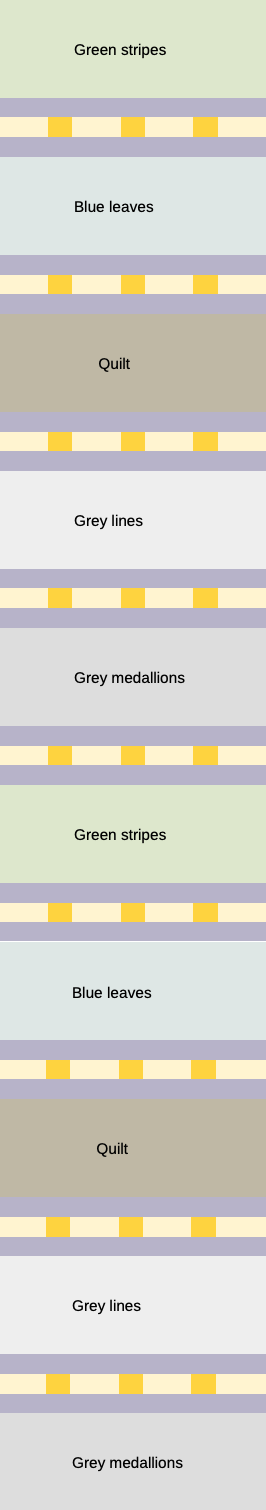
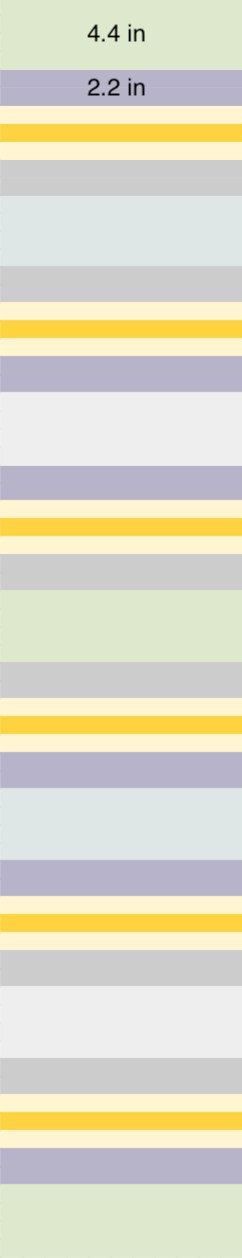
updated the schematic

diff --git a/_projects/2020-rugs/2020-rugs.md b/_projects/2020-rugs/2020-rugs.md
@@ -36,7 +36,7 @@ The warp board can only handle 12 yards. Wound on in bundles of 5 from 5 cones o
 ![Different treadlings](2020-rugs-treadlings.png)
 
 ## Rug 1
-* 6 Apr 2020: heading started
+* 6 Apr 2020: heading started: 23 rows (0.5 in) + 1 row sumac + 38 rows (0.75 in)
 
 <div class="columns-2">
 	<h2>Schematic</h2>
@@ -48,7 +48,6 @@ The warp board can only handle 12 yards. Wound on in bundles of 5 from 5 cones o
 		<li>Blue/green 6734/685 = 9.83 sq.in./g → 1.5</li>
 		<li>Blue leaves 7980/653 = 12.22 sq.in./g → 2</li>
 		<li>Quilt 8010/453 = 17.68 sq.in./g → 2.5</li>
-		<li>Lines 4644/354 = 13.12 sq.in./g → 2</li>
 		<li>Diamonds 5818/444 = 13.10sq.in./g → 2</li>			
 		<li>Orange 2968/315 = 9.42sq.in./g → 1.5</li>
 	</ul>
@@ -59,8 +58,24 @@ The warp board can only handle 12 yards. Wound on in bundles of 5 from 5 cones o
 		<li>Blue/green 1.0 in</li>
 		<li>Blue leaves 1.5 in</li>
 		<li>Quilt 1.75</li>
-		<li>Lines 2.0 in</li>
 		<li>Diamonds 2.0 in</li>
 		<li>Orange 1.0 in</li>
 	</ul>
+	
+	Weaving started with Blue/green fabric. After 3.14 in, 609 g remaining.
+	
+	<code>
+		685-609 = 78g used
+		76g/3.14in = 24.2 g/in
+	</code>
+	
+	Amounts of fabric needed:
+
+	* Blue leaves, 653g/24.2 → 27 in of weaving, only 13.2 in needed
+	* Quilt, 453/24.2 → 18.7 in, 8.8 in needed
+	
+	For orange borders, 3 picks = 5/16 in. 6 borders = 1.875 in
+	
+	Total rug length = (7 x 4.4) + (12 x 2.2) + 1.875 = 59 in
+	
 </div>
